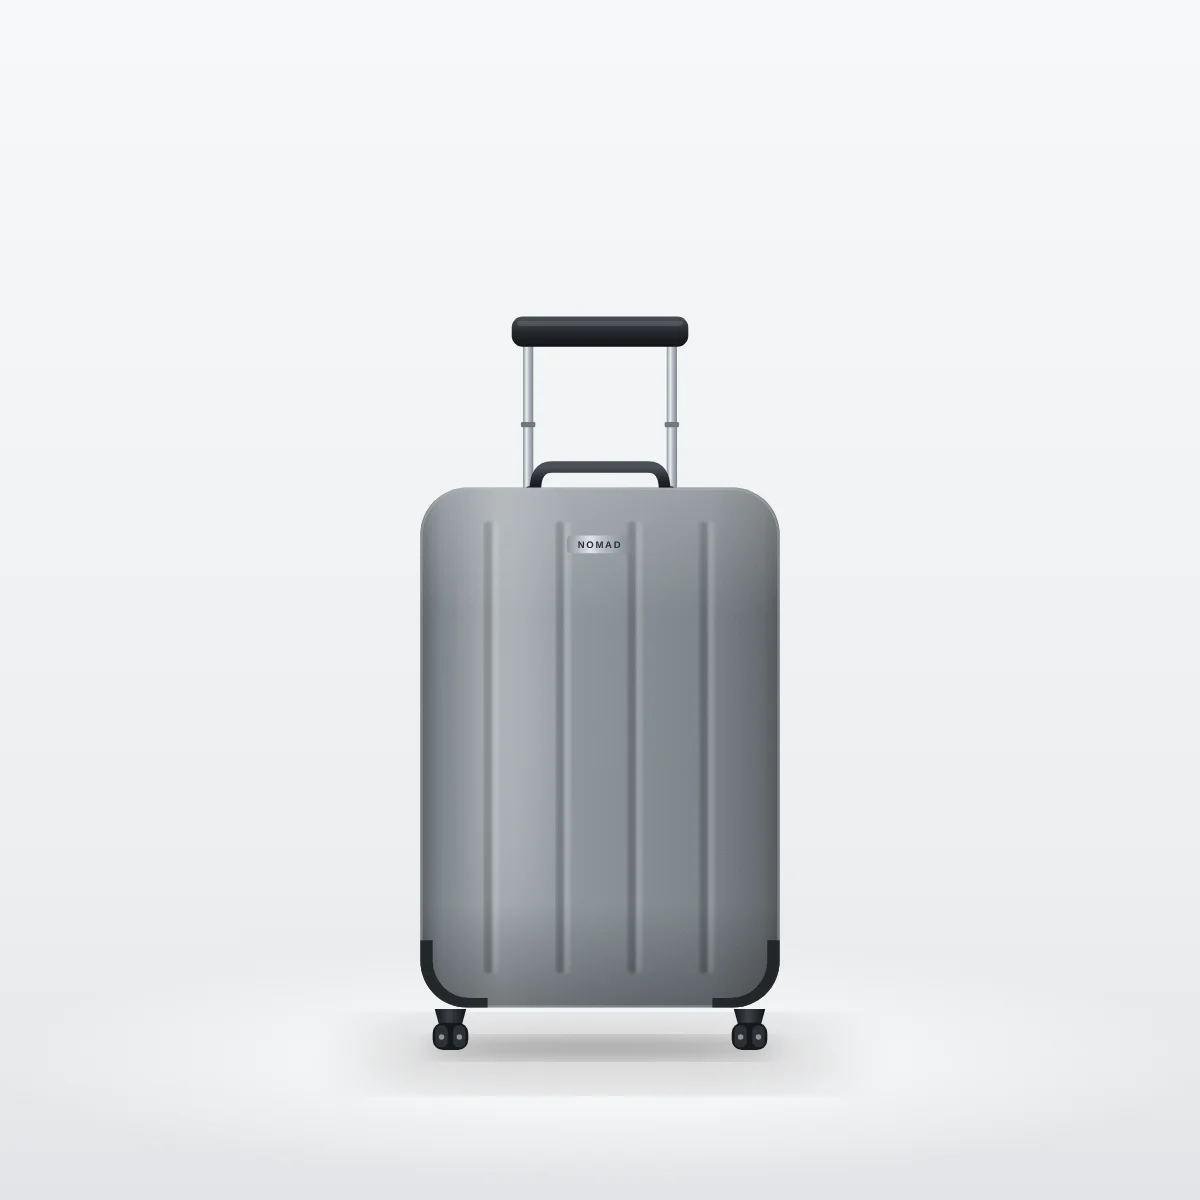
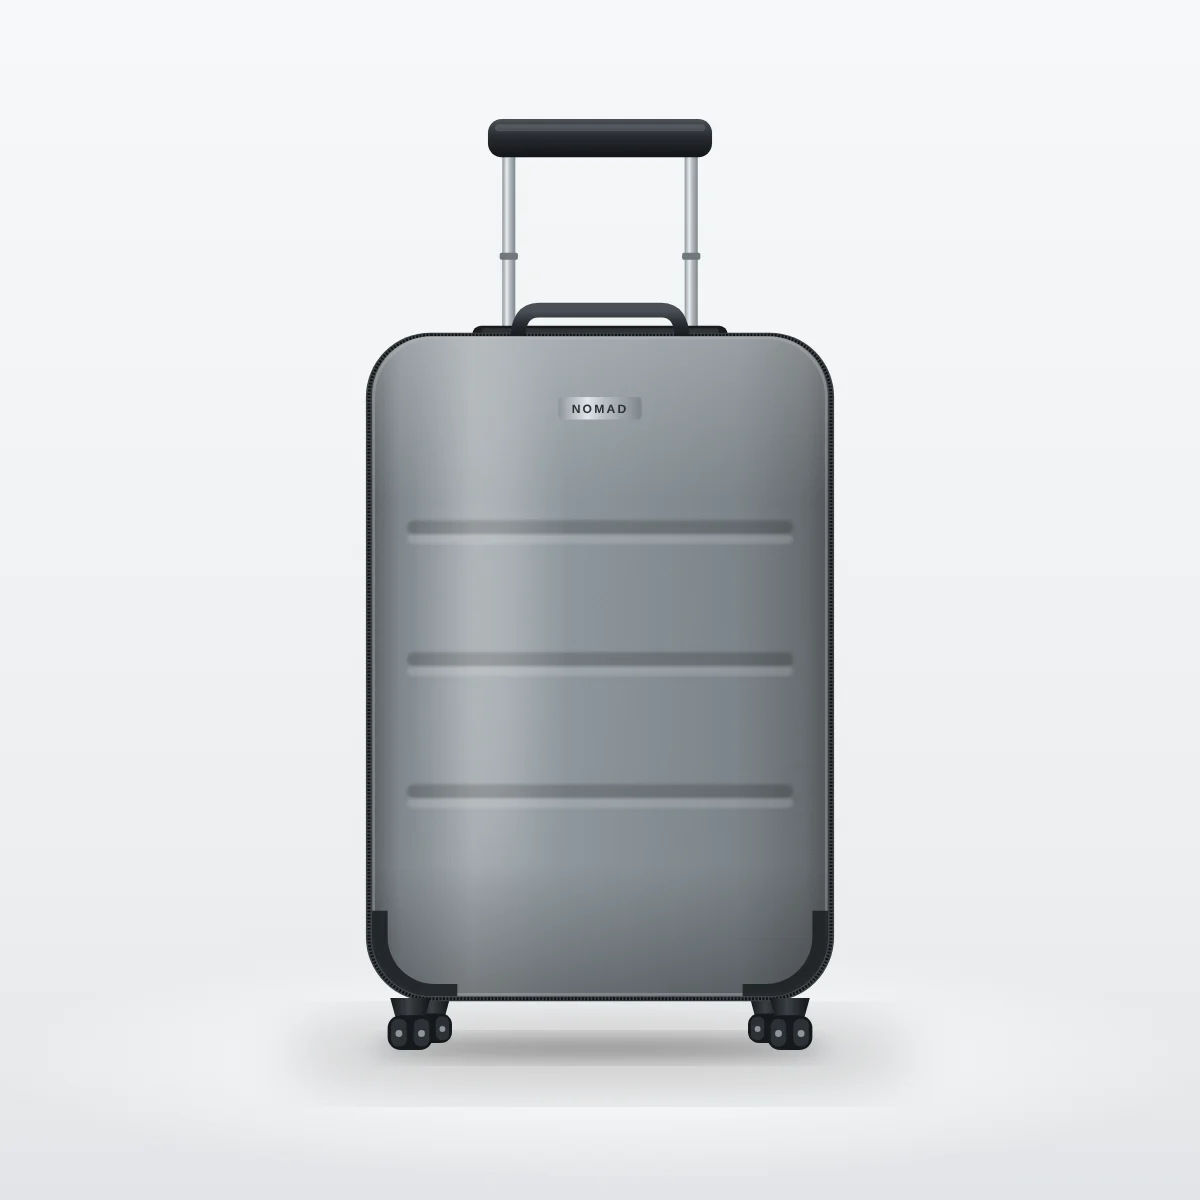
Главное демо-фото — вид спереди: крупнее, своя фактура у каждой серии, толщина корпуса и молния
Claude-Session: https://claude.ai/code/session_01Le2wYGVwoJ2nH3bG8JDA3n

Changed region(s): [[0.2775, 0.0925, 0.7092, 0.8942], [0.4625, 0.74, 0.4933, 0.7708]]

diff --git a/bin/render_demo_photos.js b/bin/render_demo_photos.js
@@ -124,7 +124,26 @@ function frontFace(x, y, w, h, hex, kind, brand) {
   let out = `<defs>${bg.svg}${vs.svg}<clipPath id="${clip}"><rect x="${x}" y="${y}" width="${w}" height="${h}" rx="${r}"/></clipPath></defs>`;
   out += `<rect x="${x}" y="${y}" width="${w}" height="${h}" rx="${r}" fill="url(#${bg.id})"/>`;
   out += `<g clip-path="url(#${clip})">`;
-  if (kind === 'hard' || kind === 'alu') {
+  const pattern = kind === 'alu' ? 'vertical' : ({ Nomad: 'horizontal', Steppe: 'diamond' }[brand] || 'vertical');
+  if ((kind === 'hard' || kind === 'alu') && pattern === 'horizontal') {
+    // серия Nomad: широкие горизонтальные пояса
+    for (const t of [0.3, 0.5, 0.7]) {
+      const ly = y + h * t, gh = 16 * s;
+      out += `<rect x="${x + 40 * s}" y="${ly - gh}" width="${w - 80 * s}" height="${gh}" rx="${gh / 2}" fill="#000" opacity=".2" filter="url(#blur2)"/>`;
+      out += `<rect x="${x + 40 * s}" y="${ly}" width="${w - 80 * s}" height="${gh * 0.7}" rx="${gh / 2}" fill="#fff" opacity=".15" filter="url(#blur2)"/>`;
+    }
+    out += `<rect x="${x}" y="${y}" width="${w}" height="${h}" filter="url(#grain)" opacity=".5"/>`;
+  } else if ((kind === 'hard' || kind === 'alu') && pattern === 'diamond') {
+    // серия Steppe: рельеф «ромб»
+    const pid = id('pt'), step = 46 * s;
+    out += `<defs><pattern id="${pid}" width="${step}" height="${step}" patternUnits="userSpaceOnUse" patternTransform="rotate(45 ${x} ${y})">
+      <rect width="${step}" height="${step}" fill="none"/><line x1="0" y1="0" x2="0" y2="${step}" stroke="#000" stroke-opacity=".16" stroke-width="${4 * s}"/>
+      <line x1="${2.5 * s}" y1="0" x2="${2.5 * s}" y2="${step}" stroke="#fff" stroke-opacity=".12" stroke-width="${2 * s}"/>
+      <line x1="0" y1="0" x2="${step}" y2="0" stroke="#000" stroke-opacity=".16" stroke-width="${4 * s}"/>
+      <line x1="0" y1="${2.5 * s}" x2="${step}" y2="${2.5 * s}" stroke="#fff" stroke-opacity=".12" stroke-width="${2 * s}"/></pattern></defs>`;
+    out += `<rect x="${x + 30 * s}" y="${y + 40 * s}" width="${w - 60 * s}" height="${h - 80 * s}" rx="${r * 0.7}" fill="url(#${pid})"/>`;
+    out += `<rect x="${x}" y="${y}" width="${w}" height="${h}" filter="url(#grain)" opacity=".5"/>`;
+  } else if (kind === 'hard' || kind === 'alu') {
     // рёбра жёсткости: пары тёмная/светлая линия
     const n = kind === 'alu' ? 9 : 4;
     for (let i = 1; i <= n; i++) {
@@ -238,7 +257,17 @@ function suitcaseFront(cx, groundY, H, p, kind) {
   const y = groundY - 62 * s - h, x = cx - w / 2;
   let g = `<ellipse cx="${cx}" cy="${groundY + 4}" rx="${w * 0.7}" ry="${30 * s}" fill="#000" opacity=".26" filter="url(#blur30)"/>`;
   g += `<ellipse cx="${cx}" cy="${groundY - 2}" rx="${w * 0.5}" ry="${10 * s}" fill="#000" opacity=".35" filter="url(#blur10)"/>`;
+  const body = kind === 'alu' ? '#c3cad0' : p.hex;
+  const r = Math.min(w, h) * 0.13;
+  // задние колёса чуть видны за передними
+  g += wheel(x + 70 * s, groundY - 8 * s, s * 0.85) + wheel(x + w - 70 * s, groundY - 8 * s, s * 0.85);
+  // выдвижная ручка и утопленное гнездо для неё на верхней грани
   g += teleHandle(x + w * 0.3, x + w * 0.7, y - 250 * s, y + 30 * s, s);
+  g += `<rect x="${x + w * 0.22}" y="${y - 12 * s}" width="${w * 0.56}" height="${28 * s}" rx="${10 * s}" fill="#181b1f"/>`;
+  g += `<rect x="${x + w * 0.24}" y="${y - 9 * s}" width="${w * 0.52}" height="${6 * s}" rx="${3 * s}" fill="#fff" opacity=".1"/>`;
+  // толщина корпуса: задняя половина видна тонким кантом по контуру + молния
+  g += `<rect x="${x - 7 * s}" y="${y - 4 * s}" width="${w + 14 * s}" height="${h + 10 * s}" rx="${r + 6 * s}" fill="${shade(body, 0.45)}"/>`;
+  g += `<rect x="${x - 3.5 * s}" y="${y - 1 * s}" width="${w + 7 * s}" height="${h + 4 * s}" rx="${r + 3 * s}" fill="none" stroke="#101214" stroke-width="${3.5 * s}" stroke-dasharray="${2.2 * s} ${1.8 * s}"/>`;
   g += topHandle(cx, y + 4 * s, w * 0.36, s);
   g += frontFace(x, y, w, h, p.hex, kind, p.brand);
   g += wheel(x + 44 * s, groundY, s) + wheel(x + w - 44 * s, groundY, s);
@@ -282,7 +311,9 @@ function scene(p, view) {
     }
   } else {
     const H = sizeH(p.size);
-    body = view === 'angle' ? suitcase34(600, ground, H, p, kind) : view === 'front' ? suitcaseFront(600, ground, H, p, kind) : suitcaseSide(600, ground, H, p, kind);
+    // Вид спереди — главное фото в каталоге: чемодан крупно, почти на весь кадр
+    const HF = { S: 660, M: 690, L: 705, XL: 712 }[p.size] || 690;
+    body = view === 'angle' ? suitcase34(600, ground, H, p, kind) : view === 'front' ? suitcaseFront(600, ground, HF, p, kind) : suitcaseSide(600, ground, H, p, kind);
   }
   return `<svg xmlns="http://www.w3.org/2000/svg" width="1200" height="1200" viewBox="0 0 1200 1200">
     <defs>${defs()}</defs>

diff --git a/bin/repair_images.php b/bin/repair_images.php
@@ -11,7 +11,7 @@ if (PHP_SAPI !== 'cli') { http_response_code(404); exit; }
 require dirname(__DIR__) . '/app/bootstrap.php';
 require __DIR__ . '/demo_images.php';
 
-const DEMO_PHOTOS_VERSION = '3';
+const DEMO_PHOTOS_VERSION = '4';
 
 $products = Db::all('SELECT id, name, sku, color_hex AS hex, size_label AS size, material FROM products');
 
@@ -19,7 +19,7 @@ $products = Db::all('SELECT id, name, sku, color_hex AS hex, size_label AS size,
 if (Settings::get('demo_photos_version') !== DEMO_PHOTOS_VERSION) {
     $replaced = 0;
     foreach ($products as $p) {
-        if (!demo_photo_file($p['sku'], 'angle')) continue;
+        if (!demo_photo_file($p['sku'], 'front')) continue;
         $demo = array_filter(Catalog::images((int)$p['id']), fn($i) => preg_match(DEMO_ALT_RE, $i['alt']));
         if (!$demo) continue;
         foreach ($demo as $im) {

diff --git a/bin/demo_images.php b/bin/demo_images.php
@@ -2,7 +2,7 @@
 declare(strict_types=1);
 
 /** Ракурсы демо-фото: [имя файла в bin/demo-photos, подпись для alt]. */
-const DEMO_VIEWS = [['angle', 'вид под углом'], ['front', 'вид спереди'], ['side', 'вид сбоку']];
+const DEMO_VIEWS = [['front', 'вид спереди'], ['angle', 'вид под углом'], ['side', 'вид сбоку']];
 /** alt демо-фото (старых и новых) — по нему отличаем их от фото, загруженных заказчиком. */
 const DEMO_ALT_RE = '/ — (вид под углом|вид спереди|вид сбоку|внутри)$/u';
 
